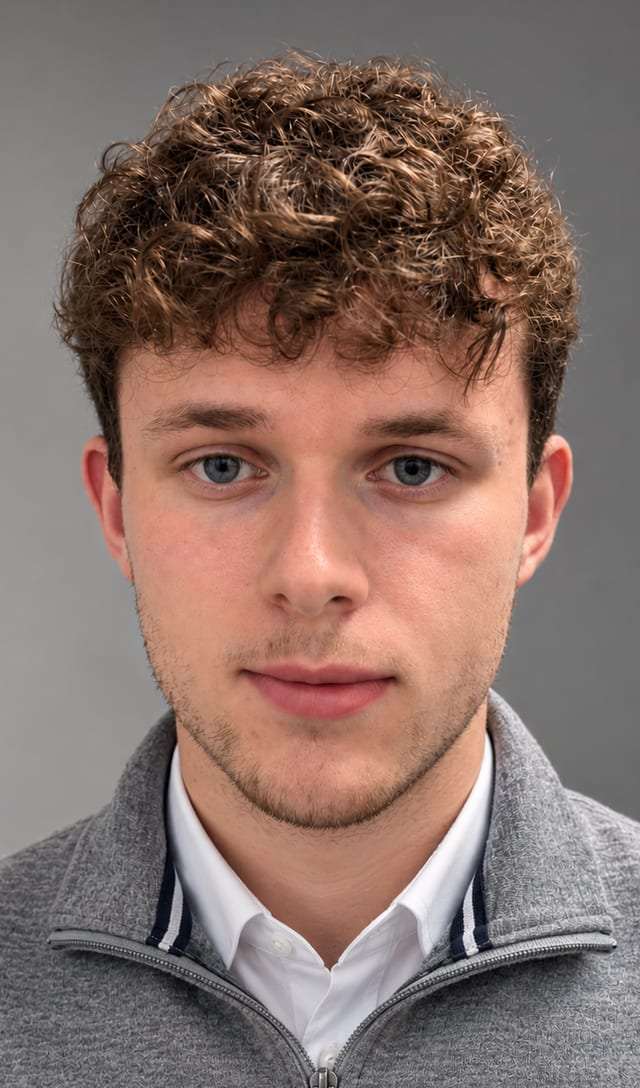
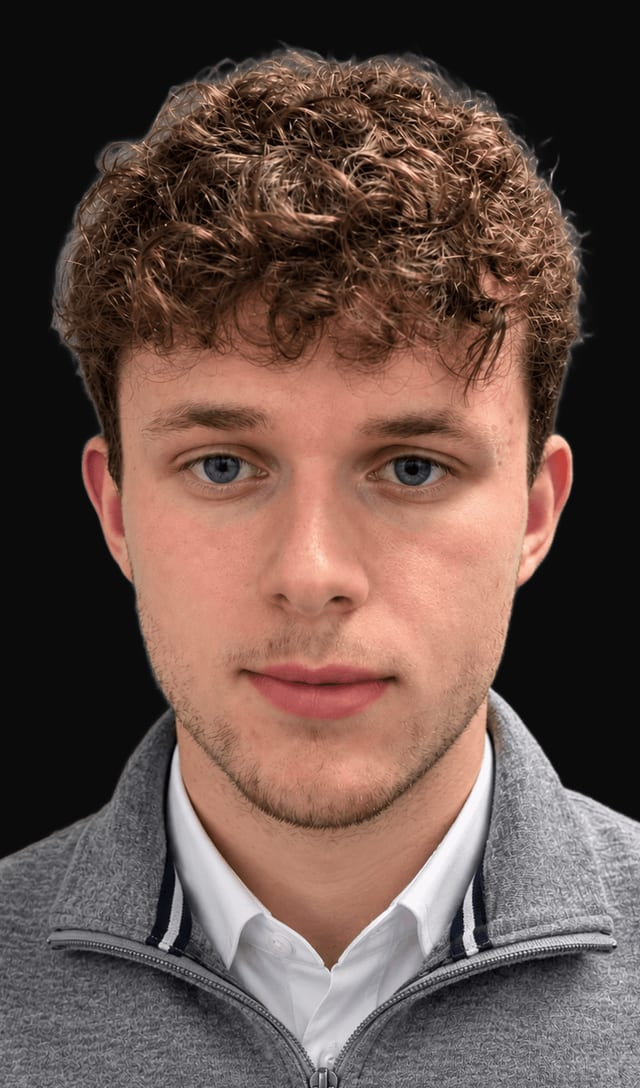
feat (hero): portrait on black background

Changed region(s): [[0.0, 0.0, 1.0, 0.8125]]

diff --git a/src/content/site.ts b/src/content/site.ts
@@ -11,7 +11,7 @@ export const site = {
   // Alt text is written from the photo, not supplied by Kieran: confirm.
   portrait: {
     src: "/images/profile/portrait.jpg",
-    alt: "Kieran, head and shoulders, with curly brown hair, wearing a grey zip-neck jumper against a plain grey background",
+    alt: "Kieran, head and shoulders, with curly brown hair, wearing a grey zip-neck jumper against a black background",
     width: 640,
     height: 1088,
   },
